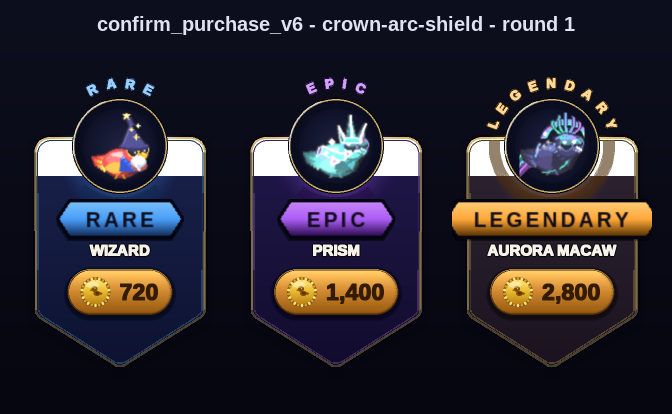
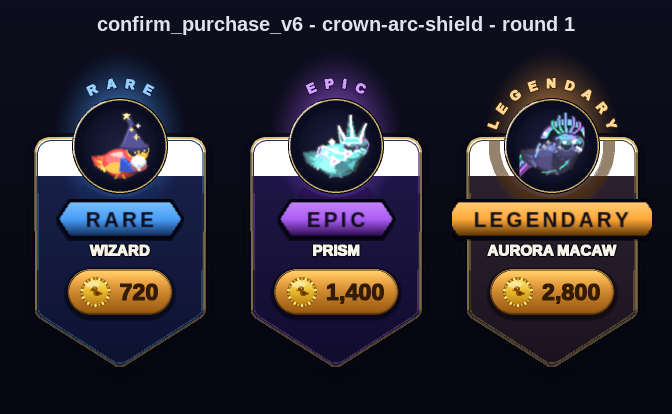
docs: confirm_purchase_v6 crown-arc-shield round_1
Claude-Session: https://claude.ai/code/session_011726ot8uBSmurQVaEkGY6K

Changed region(s): [[0.7188, 0.1449, 0.9062, 0.3188], [0.4062, 0.1449, 0.5938, 0.3188], [0.0938, 0.1449, 0.2812, 0.3188]]

diff --git a/tools/_confirm_v6_crown_arc_shield_r1.py b/tools/_confirm_v6_crown_arc_shield_r1.py
@@ -62,6 +62,17 @@ TIERS = [
 PANEL_W, PANEL_H = 200, 340
 CX = PANEL_W // 2
 
+# Review backdrop. Each panel tile is filled with this SAME vertical gradient so
+# the additive tier bloom lands on an OPAQUE scene (exactly as it does in-game) —
+# BLEND_ADD leaves destination alpha untouched, so a transparent headroom would
+# swallow the upward glow. Tiles then blend seamlessly into the canvas gradient.
+BG_TOP, BG_BOT = (14, 15, 30), (6, 6, 16)
+GAP = 16
+MARGIN = 20
+CANVAS_W = MARGIN * 2 + PANEL_W * 3 + GAP * 2
+CANVAS_H = PANEL_H + 74
+PANEL_Y = 48
+
 # Shield geometry (logical px). The body top sits well below the panel top so
 # the overhanging disc + its upward glow have transparent headroom to bloom into.
 CARD_L, CARD_R = 14, 186
@@ -228,6 +239,11 @@ def scaled_ribbon(surf, word, cx, cy, pal, scale=2.4):
 # =============================================================================
 def render_panel(word, rarity, sid, price, pal):
     big = pygame.Surface((PANEL_W * SS, PANEL_H * SS), pygame.SRCALPHA)
+    # opaque backdrop matching the canvas gradient (so the upward BLEND_ADD bloom
+    # has a scene to add onto and reads unclipped in the headroom).
+    for ry in range(PANEL_H * SS):
+        f = (PANEL_Y + ry / SS) / CANVAS_H
+        big.fill(lerp_color(BG_TOP, BG_BOT, min(1.0, f)), (0, ry, PANEL_W * SS, 1))
     outline = shield_outline()
     ctr = _centroid(outline)
 
@@ -303,14 +319,9 @@ def render_panel(word, rarity, sid, price, pal):
 # =============================================================================
 # Compose the three-panel review canvas
 # =============================================================================
-GAP = 16
-MARGIN = 20
-CANVAS_W = MARGIN * 2 + PANEL_W * 3 + GAP * 2
-CANVAS_H = PANEL_H + 74
 canvas = pygame.Surface((CANVAS_W, CANVAS_H))
 for y in range(CANVAS_H):
-    canvas.fill(lerp_color((14, 15, 30), (6, 6, 16), y / CANVAS_H),
-                (0, y, CANVAS_W, 1))
+    canvas.fill(lerp_color(BG_TOP, BG_BOT, y / CANVAS_H), (0, y, CANVAS_W, 1))
 
 title = _font(20, True)
 tt = title.render("confirm_purchase_v6 - crown-arc-shield - round 1", True,
@@ -321,7 +332,7 @@ lab = _font(13, True)
 for i, (word, rarity, sid, price, pal) in enumerate(TIERS):
     panel = render_panel(word, rarity, sid, price, pal)
     px = MARGIN + i * (PANEL_W + GAP)
-    canvas.blit(panel, (px, 48))
+    canvas.blit(panel, (px, PANEL_Y))
 
 out = "/home/user/skybit/docs/confirm_purchase_v6/crown-arc-shield/round_1.png"
 os.makedirs(os.path.dirname(out), exist_ok=True)
